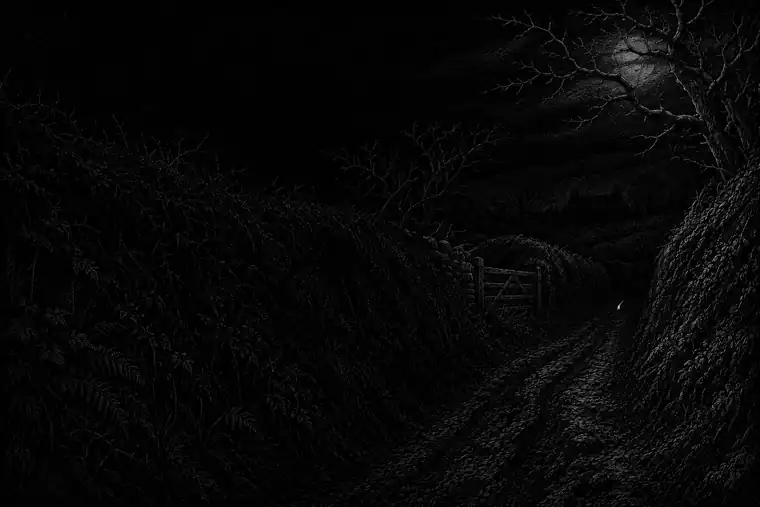
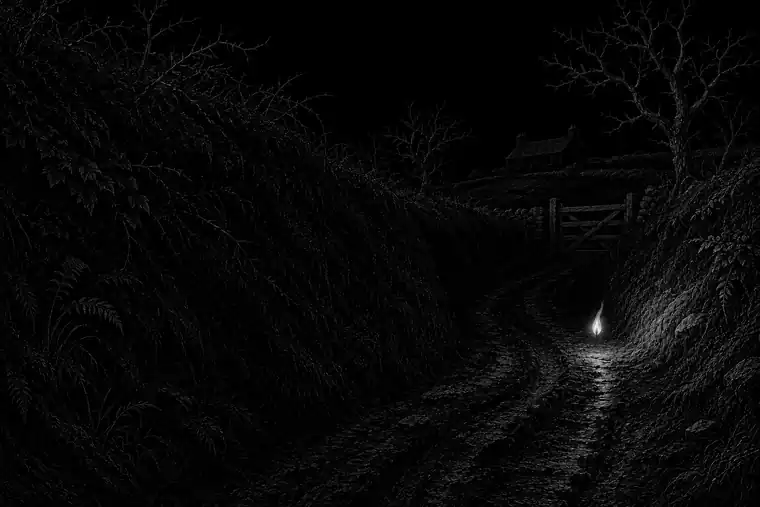
Replace the lane and mule-room ghost pictures
Protheroe's lane now has a flame that can be seen and no moon.
Kenworthy's mule room is a proper carriage with a boy's clogs by the
wall. It came out darker than the rest of the set, so its web copy has
the shadows lifted a little. The original is untouched.

Claude-Session: https://claude.ai/code/session_01E4Wqirngb9o7j7sHZzvWWJ

diff --git a/images/make_faint.py b/images/make_faint.py
@@ -36,10 +36,18 @@ for path in sorted(SRC.glob("*.webp")):
     print(path.name, im.size, (OUT / path.name).stat().st_size // 1024, "KB")
 
 GHOSTS = ROOT / "images" / "ghosts"
+# A picture that came out much darker than the rest of the set can be
+# lifted a little here, so that it shows at the same strength as the
+# others. 1 leaves it alone; a smaller number lifts the shadows more.
+# The original in images/ghosts/ is never changed.
+LIFT = {"eli-kenworthy": 0.72}
 GHOSTS_OUT = SRC / "ghosts"
 GHOSTS_OUT.mkdir(exist_ok=True)
 for path in sorted(GHOSTS.glob("*.webp")):
     im = Image.open(path).convert("L")
+    gamma = LIFT.get(path.stem, 1)
+    if gamma != 1:
+        im = im.point([round(255 * (v / 255) ** gamma) for v in range(256)])
     for width, suffix, quality in ((1200, "", 48), (760, "-small", 50)):
         copy = im.copy()
         copy.thumbnail((width, width), Image.LANCZOS)

diff --git a/images/PROMPTS.md b/images/PROMPTS.md
@@ -188,9 +188,11 @@ Placement: the well, the lantern and the coins in the right-hand third, with the
 
 ### 5. Eli Kenworthy: a wage owing
 
-The first result (in use) is busier and paler than the rest of the set,
-the machine is not quite a mule, and the clogs look like a girl's
-strapped shoes. Second prompt, written after the story:
+The first result was busier and paler than the rest of the set, the
+machine was not quite a mule, and the clogs looked like a girl's
+strapped shoes. This second prompt, written after the story, made the
+picture now in use. It came out darker than the others, so
+`make_faint.py` lifts its shadows a little.
 
 ```
 Same style, and as dark and quiet as the others in the set: nearly all black, with one small light. Subject: a corner of the spinning room of a Lancashire cotton mill before dawn, about 1873, empty, with the machines stopped. A spinning mule: a long, low wooden carriage on small iron wheels, standing on rails on the floor and drawn out about five feet from a fixed frame. Along the top of the carriage is a single row of slim upright spindles, and a flat sheet of fine threads runs from them across the gap to the frame. The carriage runs away into the dark and is only just visible. Bare oily floorboards. One gas jet burns on a wall bracket, and it is the only light. Under it, against the wall, stands one small pair of boy's clogs: like little ankle boots, with plain leather uppers and thick wooden soles, no strap across the foot and no heel. On the floor beside the end of the carriage lies a short hand-brush. Nobody in the room.
@@ -213,8 +215,9 @@ Placement: the looking-glass and the candle in the right-hand third, with the fl
 
 ### 8. Rachel Protheroe: a warning that comes first
 
-The first result (in use) has a moon, which the prompt ruled out, and a
-flame only a few pixels high, which vanishes on the page. Second prompt:
+The first result had a moon, which the prompt ruled out, and a flame
+only a few pixels high, which vanished on the page. This second prompt
+made the picture now in use:
 
 ```
 Same style. Subject: a narrow sunken lane between high hedge-banks in the hills of west Wales, at night, about 1896. There is no moon and no light in the sky at all: the sky is plain black. Some way down the lane, low over the ruts, a single pale flame is travelling along by itself, like a candle flame with no candle and nobody carrying it. It must be easy to see: about the size a real candle flame would look from six feet away, with a soft glow that just touches the mud beneath it and the nearest part of the hedge-bank. It is the only light in the picture. A field gate, bare thorn trees against the black, and far off the dark shape of a farmhouse with no light in it.
